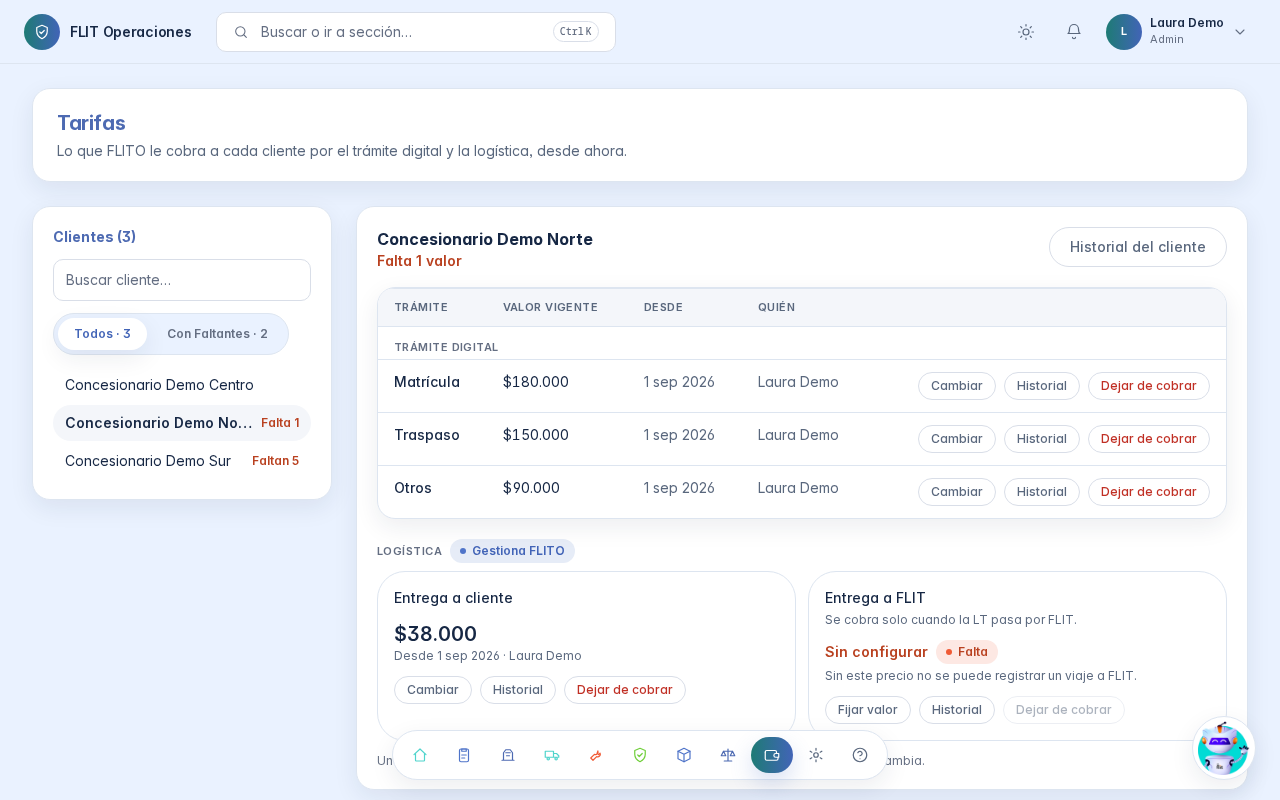
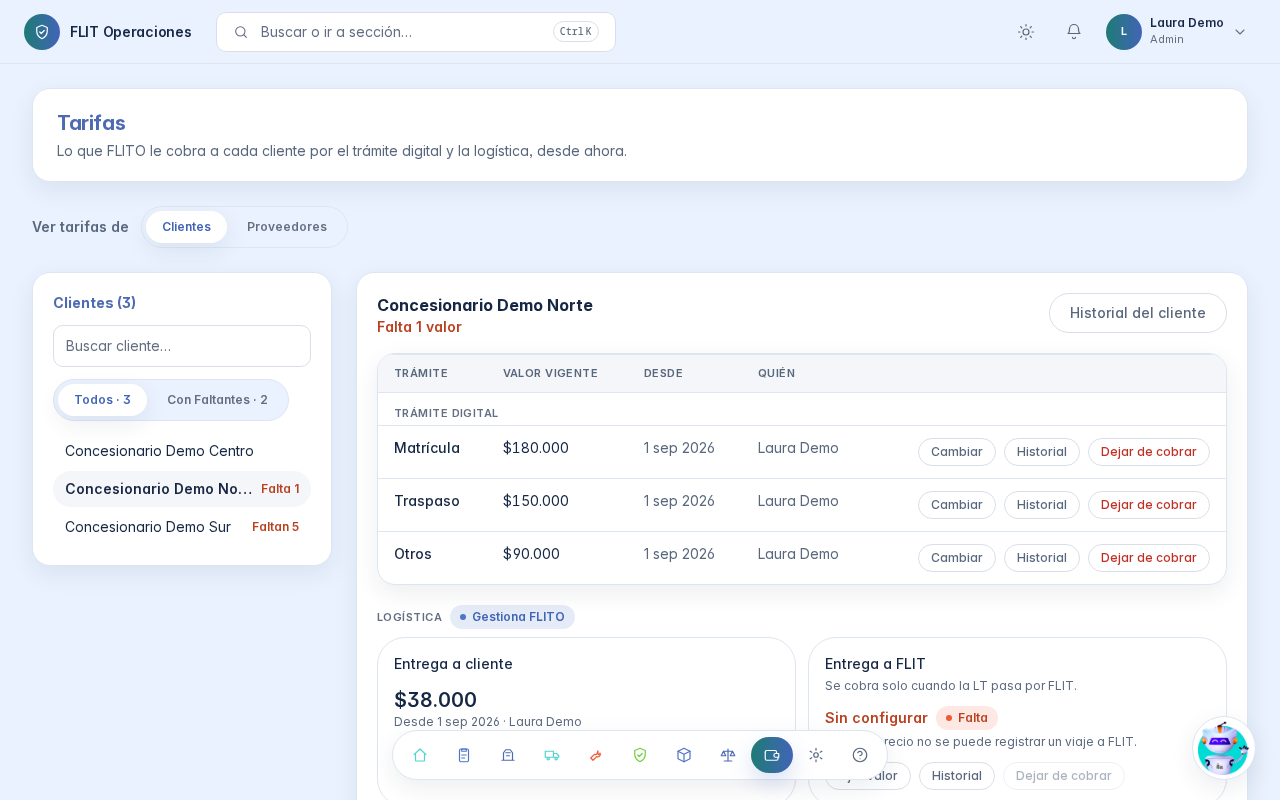
docs(ayuda): ficha de Tarifas 2.0 con el modo Proveedores y capturas regeneradas (Épica #13763)

diff --git a/apps/api/src/modules/flito-dr-flit/ayuda/fichas-ayuda.generated.ts b/apps/api/src/modules/flito-dr-flit/ayuda/fichas-ayuda.generated.ts
@@ -909,24 +909,28 @@ export const FICHAS_AYUDA: readonly FichaAyudaApi[] = Object.freeze([
     "clave": "flito_tarifas",
     "permiso": "flito_tarifas",
     "etiqueta": "Tarifas",
-    "resumen": "Cuánto se le cobra a cada cliente por trámite y logística.",
-    "version": "1.3",
-    "fecha": "2026-10-27",
+    "resumen": "Cuánto se le cobra a cada cliente y cuánto cobra cada proveedor por su servicio.",
+    "version": "2.0",
+    "fecha": "2026-11-11",
     "palabrasClave": [
       "tarifas",
       "precios",
       "cobro por trámite",
-      "logística"
+      "logística",
+      "costo de proveedor",
+      "tarifa de proveedor"
     ],
     "consultas": [
       "cuánto se le cobra a un cliente",
-      "cómo cambio la tarifa de un cliente"
+      "cómo cambio la tarifa de un cliente",
+      "cuánto nos cobra un proveedor",
+      "cómo fijo lo que cobra un proveedor de SOAT o de logística"
     ],
     "secciones": [
       {
         "ancla": "que-es",
         "titulo": "Qué es",
-        "texto": "La pantalla donde se fija cuánto cobra FLITO a cada cliente por el trámite digital —Matrícula, Traspaso y Otros— y por la logística, que tiene dos precios: Entrega a cliente y Entrega a FLIT. Cada valor tiene una vigencia: rige desde el momento en que usted lo guarda y hasta que lo cambie o deje de cobrarlo."
+        "texto": "La pantalla donde se fija cuánto cobra FLITO a cada cliente por el trámite digital —Matrícula, Traspaso y Otros— y por la logística, que tiene dos precios: Entrega a cliente y Entrega a FLIT. Cada valor tiene una vigencia: rige desde el momento en que usted lo guarda y hasta que lo cambie o deje de cobrarlo. Tiene dos modos, que se eligen en Ver tarifas de: Clientes —lo que FLITO cobra a cada compañía— y Proveedores —lo que cada proveedor le cobra a FLITO por su servicio, en pesos y sin IVA—. Son valores distintos y no se mezclan."
       },
       {
         "ancla": "para-quien",
@@ -941,17 +945,17 @@ export const FICHAS_AYUDA: readonly FichaAyudaApi[] = Object.freeze([
       {
         "ancla": "pasos",
         "titulo": "Pasos",
-        "texto": "Elija la compañía en la lista Clientes de la izquierda (o búsquela en Buscar cliente…). Las que tienen valores sin configurar muestran Falta 1 o Faltan N; con la pestaña Con faltantes ve solo esas. Un cliente inactivo aparece en gris con Inactivo y no se puede elegir. A la derecha, las tres filas del trámite digital —Matrícula, Traspaso y Otros— y, debajo, el grupo Logística con dos paneles, Entrega a cliente y Entrega a FLIT; cada uno con el valor vigente, desde cuándo y quién lo fijó. Entrega a FLIT también hay que configurarla —cuenta en Falta / Faltan N—, pero solo se cobra cuando la logística pasa por FLIT; sin precio no se puede registrar un viaje a FLIT y no se bloquea nada más. Lista de clientes con Falta 1 y Faltan 5, y las filas de tarifas de un cliente: el trámite digital con valor y, en Logística, Entrega a cliente con valor y Entrega a FLIT Sin configurar con el chip Falta Pulse Fijar valor en una fila o panel que diga Sin configurar, o Cambiar en uno que ya tenga valor. Escriba el número y pulse Guardar (o Cancelar). El tipo de trámite ya está en la fila: no se escribe. Fila Logística en edición con el valor escrito y los botones Guardar y Cancelar Si escribe 0, FLITO le pide confirmar: cero significa que el trámite se cobra a $0, no que está sin configurar. Para no cobrar un concepto, pulse Dejar de cobrar y confirme (en un panel sin valor este botón está apagado). La fila o el panel vuelve a Sin configurar y la vigencia queda cerrada en el historial, con su nombre y la hora. Pulse Historial en una fila o panel, o Historial del cliente arriba, para abrir Historial de vigencias: valor, desde, hasta (o Vigente), quién la fijó y quién la cerró. Las pastillas filtran por trámite y Fijadas entre acota por fecha. Historial de vigencias con una tarifa Vigente y la anterior cerrada, con quién la fijó y quién la cerró Cómo cambia un valor y qué queda guardado, de un vistazo: Diagrama: una fila sin configurar pasa a vigente al fijar valor y guardar; cambiarla cierra la vigencia anterior y abre otra; dejar de cobrar la devuelve a sin configurar; todo queda en el historial con quién la fijó y quién la cerró"
+        "texto": "Con Ver tarifas de en Clientes, elija la compañía en la lista Clientes de la izquierda (o búsquela en Buscar cliente…). Las que tienen valores sin configurar muestran Falta 1 o Faltan N; con la pestaña Con faltantes ve solo esas. Un cliente inactivo aparece en gris con Inactivo y no se puede elegir. A la derecha, las tres filas del trámite digital —Matrícula, Traspaso y Otros— y, debajo, el grupo Logística con dos paneles, Entrega a cliente y Entrega a FLIT; cada uno con el valor vigente, desde cuándo y quién lo fijó. Entrega a FLIT también hay que configurarla —cuenta en Falta / Faltan N—, pero solo se cobra cuando la logística pasa por FLIT; sin precio no se puede registrar un viaje a FLIT y no se bloquea nada más. Lista de clientes con Falta 1 y Faltan 5, y las filas de tarifas de un cliente: el trámite digital con valor y, en Logística, Entrega a cliente con valor y Entrega a FLIT Sin configurar con el chip Falta Pulse Fijar valor en una fila o panel que diga Sin configurar, o Cambiar en uno que ya tenga valor. Escriba el número y pulse Guardar (o Cancelar). El tipo de trámite ya está en la fila: no se escribe. Fila Logística en edición con el valor escrito y los botones Guardar y Cancelar Si escribe 0, FLITO le pide confirmar: cero significa que el trámite se cobra a $0, no que está sin configurar. Para no cobrar un concepto, pulse Dejar de cobrar y confirme (en un panel sin valor este botón está apagado). La fila o el panel vuelve a Sin configurar y la vigencia queda cerrada en el historial, con su nombre y la hora. Pulse Historial en una fila o panel, o Historial del cliente arriba, para abrir Historial de vigencias: valor, desde, hasta (o Vigente), quién la fijó y quién la cerró. Las pastillas filtran por trámite y Fijadas entre acota por fecha. Historial de vigencias con una tarifa Vigente y la anterior cerrada, con quién la fijó y quién la cerró Para ver lo que cobra un proveedor, en Ver tarifas de pulse Proveedores. A la izquierda aparecen los proveedores activos (o búsquelos en Buscar proveedor…); en un celular, elíjalo en Proveedor. Al elegir uno, verá solo los servicios que presta: Logística tiene un valor; SOAT tiene dos, SOAT con trámite y SOAT sin trámite. Si presta los dos servicios, verá las tres filas, cada una con su propio valor. Fijar valor, Cambiar, Dejar de cobrar e Historial funcionan igual que en Clientes, también la confirmación al guardar 0. Historial del proveedor reúne todas sus vigencias. Si otra persona cambió el mismo valor mientras usted lo editaba, FLITO no guarda el suyo y avisa Otro usuario cambió este valor. Recarga para ver el vigente con el botón Recargar. Un proveedor inactivo se ve en modo de solo lectura con el aviso Este proveedor está inactivo.: su historial se conserva, pero no se le pueden fijar ni cambiar valores. Si a un proveedor se le quita un servicio, su fila deja de mostrarse; en el historial, ese valor aparece con Sin servicio asignado, y vuelve si se le asigna el servicio otra vez. Cómo cambia un valor y qué queda guardado, de un vistazo (igual en los dos modos): Diagrama: una fila sin configurar pasa a vigente al fijar valor y guardar; cambiarla cierra la vigencia anterior y abre otra; dejar de cobrar la devuelve a sin configurar; todo queda en el historial con quién la fijó y quién la cerró"
       },
       {
         "ancla": "estados",
         "titulo": "Estados",
-        "texto": "Cargando: un esqueleto en el lugar de la lista o de la matriz, con los botones apagados. Error: No se pudieron cargar los valores de… con Reintentar. FLITO no muestra $0 ni Sin configurar por un error: si ve una fila, es lo que hay guardado. Vacío: Todavía no hay clientes. cuando no existe ninguna compañía; Sin configurar en la fila a la que no se le ha fijado valor. Lleno: las tres filas de trámite y los dos paneles de logística del cliente con su valor, desde cuándo rige y quién lo fijó."
+        "texto": "Cargando: un esqueleto en el lugar de la lista o de la matriz, con los botones apagados. Error: No se pudieron cargar los valores de… con Reintentar. FLITO no muestra $0 ni Sin configurar por un error: si ve una fila, es lo que hay guardado. Vacío: Todavía no hay clientes. cuando no existe ninguna compañía; Sin configurar en la fila a la que no se le ha fijado valor. Lleno: las tres filas de trámite y los dos paneles de logística del cliente con su valor, desde cuándo rige y quién lo fijó. En Proveedores: No hay proveedores activos. cuando no hay ninguno, y un aviso cuando el proveedor elegido no tiene servicios asignados."
       },
       {
         "ancla": "que-no-hace",
         "titulo": "Qué no hace",
-        "texto": "No cambia lo ya liquidado. Un trámite que ya se facturó conserva el valor con el que se liquidó, aunque usted cambie la tarifa después. Cada trámite vale lo que regía en su fecha de aprobación. Si hoy cambia un valor, aplica a los trámites que se aprueben desde hoy; los aprobados antes siguen con el valor de entonces. No borra ni «desactiva» tarifas: una vigencia se cierra y queda en el historial. No decide si el cliente autogestiona la logística: Gestiona FLITO o Autogestiona el cliente se lee aquí, pero se cambia en Clientes y proveedores. No muestra el reporte de costos ni lo que se cobró en cada trámite."
+        "texto": "No cambia lo ya liquidado. Un trámite que ya se facturó conserva el valor con el que se liquidó, aunque usted cambie la tarifa después. Cada trámite vale lo que regía en su fecha de aprobación. Si hoy cambia un valor, aplica a los trámites que se aprueben desde hoy; los aprobados antes siguen con el valor de entonces. No borra ni «desactiva» tarifas: una vigencia se cierra y queda en el historial. No decide si el cliente autogestiona la logística: Gestiona FLITO o Autogestiona el cliente se lee aquí, pero se cambia en Clientes y proveedores. No muestra el reporte de costos ni lo que se cobró en cada trámite. Lo que cobra un proveedor solo queda registrado: todavía no se usa para liquidar ni para el reporte de costos, y un valor Sin configurar no bloquea ningún SOAT ni ninguna entrega. El proveedor no ve esta pantalla ni sus valores."
       }
     ]
   },

diff --git a/apps/web/e2e/tests/flito-ayuda-artefactos.spec.ts b/apps/web/e2e/tests/flito-ayuda-artefactos.spec.ts
@@ -240,7 +240,8 @@ test.describe('FLITO — Ayuda · artefactos AC6/AC7', () => {
     // HU #13964: «Quitar» la versión vigente y el estado «retirada» del historial (v1.8).
     flito_bolsas: { version: '1.8', fecha: '2026-10-26', diagrama: 'ciclo-periodo.svg', capturas: [
       '01-cabecera-y-kpi.png', '02-companias.png', '03-crear-bolsa.png', '04-detalle-compania.png', '05-documentos.png'] },
-    flito_tarifas: { version: '1.3', fecha: '2026-10-27', diagrama: 'vigencias.svg', capturas: [
+    // Épica #13763: modo Proveedores (lo que cada proveedor cobra a FLITO) y selector «Ver tarifas de» (v2.0).
+    flito_tarifas: { version: '2.0', fecha: '2026-11-11', diagrama: 'vigencias.svg', capturas: [
       '01-elegir-compania.png', '02-fijar-valor.png', '03-historial.png'] },
     // Citadas en el orden de los pasos de la ficha (la 01 ilustra el paso 5, «Por tarifar»).
     flito_servicios_adicionales: { version: '1.1', fecha: '2026-10-21', diagrama: 'ciclo-tipo.svg', capturas: [

diff --git a/apps/web/src/content/ayuda/flito_tarifas.md b/apps/web/src/content/ayuda/flito_tarifas.md
@@ -1,19 +1,25 @@
 ---
-resumen: Cuánto se le cobra a cada cliente por trámite y logística.
+resumen: Cuánto se le cobra a cada cliente y cuánto cobra cada proveedor por su servicio.
 palabras_clave:
   - tarifas
   - precios
   - cobro por trámite
   - logística
+  - costo de proveedor
+  - tarifa de proveedor
 consultas:
   - cuánto se le cobra a un cliente
   - cómo cambio la tarifa de un cliente
-version: 1.3
-fecha: 2026-10-27
+  - cuánto nos cobra un proveedor
+  - cómo fijo lo que cobra un proveedor de SOAT o de logística
+version: 2.0
+fecha: 2026-11-11
 ---
 ## Qué es
 
 La pantalla donde se fija cuánto cobra FLITO a cada cliente por el trámite digital —Matrícula, Traspaso y Otros— y por la logística, que tiene dos precios: **Entrega a cliente** y **Entrega a FLIT**. Cada valor tiene una vigencia: rige desde el momento en que usted lo guarda y hasta que lo cambie o deje de cobrarlo.
+
+Tiene dos modos, que se eligen en **Ver tarifas de**: **Clientes** —lo que FLITO cobra a cada compañía— y **Proveedores** —lo que cada proveedor le cobra a FLITO por su servicio, en pesos y sin IVA—. Son valores distintos y no se mezclan.
 
 ## Para quién
 
@@ -25,13 +31,18 @@ En el menú, **Finanzas → Tarifas**. También desde **Clientes y proveedores**
 
 ## Pasos
 
-1. Elija la compañía en la lista **Clientes** de la izquierda (o búsquela en **Buscar cliente…**). Las que tienen valores sin configurar muestran **Falta 1** o **Faltan N**; con la pestaña **Con faltantes** ve solo esas. Un cliente inactivo aparece en gris con **Inactivo** y no se puede elegir. A la derecha, las tres filas del trámite digital —**Matrícula**, **Traspaso** y **Otros**— y, debajo, el grupo **Logística** con dos paneles, **Entrega a cliente** y **Entrega a FLIT**; cada uno con el valor vigente, desde cuándo y quién lo fijó. **Entrega a FLIT** también hay que configurarla —cuenta en **Falta** / **Faltan N**—, pero solo se cobra cuando la logística pasa por FLIT; sin precio no se puede registrar un viaje a FLIT y no se bloquea nada más. ![Lista de clientes con Falta 1 y Faltan 5, y las filas de tarifas de un cliente: el trámite digital con valor y, en Logística, Entrega a cliente con valor y Entrega a FLIT Sin configurar con el chip Falta](./flito_tarifas/01-elegir-compania.png)
+1. Con **Ver tarifas de** en **Clientes**, elija la compañía en la lista **Clientes** de la izquierda (o búsquela en **Buscar cliente…**). Las que tienen valores sin configurar muestran **Falta 1** o **Faltan N**; con la pestaña **Con faltantes** ve solo esas. Un cliente inactivo aparece en gris con **Inactivo** y no se puede elegir. A la derecha, las tres filas del trámite digital —**Matrícula**, **Traspaso** y **Otros**— y, debajo, el grupo **Logística** con dos paneles, **Entrega a cliente** y **Entrega a FLIT**; cada uno con el valor vigente, desde cuándo y quién lo fijó. **Entrega a FLIT** también hay que configurarla —cuenta en **Falta** / **Faltan N**—, pero solo se cobra cuando la logística pasa por FLIT; sin precio no se puede registrar un viaje a FLIT y no se bloquea nada más. ![Lista de clientes con Falta 1 y Faltan 5, y las filas de tarifas de un cliente: el trámite digital con valor y, en Logística, Entrega a cliente con valor y Entrega a FLIT Sin configurar con el chip Falta](./flito_tarifas/01-elegir-compania.png)
 2. Pulse **Fijar valor** en una fila o panel que diga **Sin configurar**, o **Cambiar** en uno que ya tenga valor. Escriba el número y pulse **Guardar** (o **Cancelar**). El tipo de trámite ya está en la fila: no se escribe. ![Fila Logística en edición con el valor escrito y los botones Guardar y Cancelar](./flito_tarifas/02-fijar-valor.png)
 3. Si escribe **0**, FLITO le pide confirmar: cero significa que el trámite **se cobra a $0**, no que está sin configurar.
 4. Para no cobrar un concepto, pulse **Dejar de cobrar** y confirme (en un panel sin valor este botón está apagado). La fila o el panel vuelve a **Sin configurar** y la vigencia queda cerrada en el historial, con su nombre y la hora.
 5. Pulse **Historial** en una fila o panel, o **Historial del cliente** arriba, para abrir **Historial de vigencias**: valor, desde, hasta (o **Vigente**), quién la fijó y quién la cerró. Las pastillas filtran por trámite y **Fijadas entre** acota por fecha. ![Historial de vigencias con una tarifa Vigente y la anterior cerrada, con quién la fijó y quién la cerró](./flito_tarifas/03-historial.png)
+6. Para ver lo que cobra un proveedor, en **Ver tarifas de** pulse **Proveedores**. A la izquierda aparecen los proveedores activos (o búsquelos en **Buscar proveedor…**); en un celular, elíjalo en **Proveedor**.
+7. Al elegir uno, verá solo los servicios que presta: **Logística** tiene un valor; **SOAT** tiene dos, **SOAT con trámite** y **SOAT sin trámite**. Si presta los dos servicios, verá las tres filas, cada una con su propio valor.
+8. **Fijar valor**, **Cambiar**, **Dejar de cobrar** e **Historial** funcionan igual que en Clientes, también la confirmación al guardar **0**. **Historial del proveedor** reúne todas sus vigencias.
+9. Si otra persona cambió el mismo valor mientras usted lo editaba, FLITO no guarda el suyo y avisa **Otro usuario cambió este valor. Recarga para ver el vigente** con el botón **Recargar**.
+10. Un proveedor inactivo se ve en modo de solo lectura con el aviso **Este proveedor está inactivo.**: su historial se conserva, pero no se le pueden fijar ni cambiar valores. Si a un proveedor se le quita un servicio, su fila deja de mostrarse; en el historial, ese valor aparece con **Sin servicio asignado**, y vuelve si se le asigna el servicio otra vez.
 
-Cómo cambia un valor y qué queda guardado, de un vistazo:
+Cómo cambia un valor y qué queda guardado, de un vistazo (igual en los dos modos):
 
 ![Diagrama: una fila sin configurar pasa a vigente al fijar valor y guardar; cambiarla cierra la vigencia anterior y abre otra; dejar de cobrar la devuelve a sin configurar; todo queda en el historial con quién la fijó y quién la cerró](./flito_tarifas/vigencias.svg)
 
@@ -41,6 +52,7 @@ Cómo cambia un valor y qué queda guardado, de un vistazo:
 - Error: **No se pudieron cargar los valores de…** con **Reintentar**. FLITO no muestra $0 ni **Sin configurar** por un error: si ve una fila, es lo que hay guardado.
 - Vacío: **Todavía no hay clientes.** cuando no existe ninguna compañía; **Sin configurar** en la fila a la que no se le ha fijado valor.
 - Lleno: las tres filas de trámite y los dos paneles de logística del cliente con su valor, desde cuándo rige y quién lo fijó.
+- En **Proveedores**: **No hay proveedores activos.** cuando no hay ninguno, y un aviso cuando el proveedor elegido no tiene servicios asignados.
 
 ## Qué no hace
 
@@ -49,3 +61,5 @@ Cómo cambia un valor y qué queda guardado, de un vistazo:
 - No borra ni «desactiva» tarifas: una vigencia se cierra y queda en el historial.
 - No decide si el cliente autogestiona la logística: **Gestiona FLITO** o **Autogestiona el cliente** se lee aquí, pero se cambia en **Clientes y proveedores**.
 - No muestra el reporte de costos ni lo que se cobró en cada trámite.
+- Lo que cobra un proveedor solo queda registrado: todavía no se usa para liquidar ni para el reporte de costos, y un valor **Sin configurar** no bloquea ningún SOAT ni ninguna entrega.
+- El proveedor no ve esta pantalla ni sus valores.
